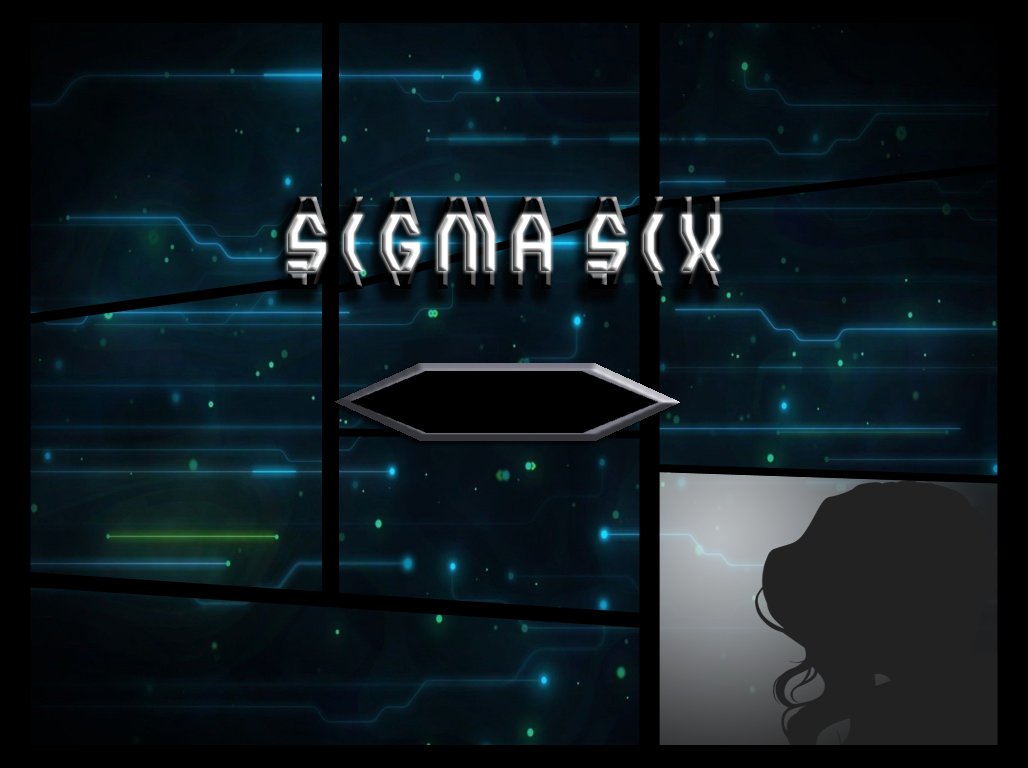
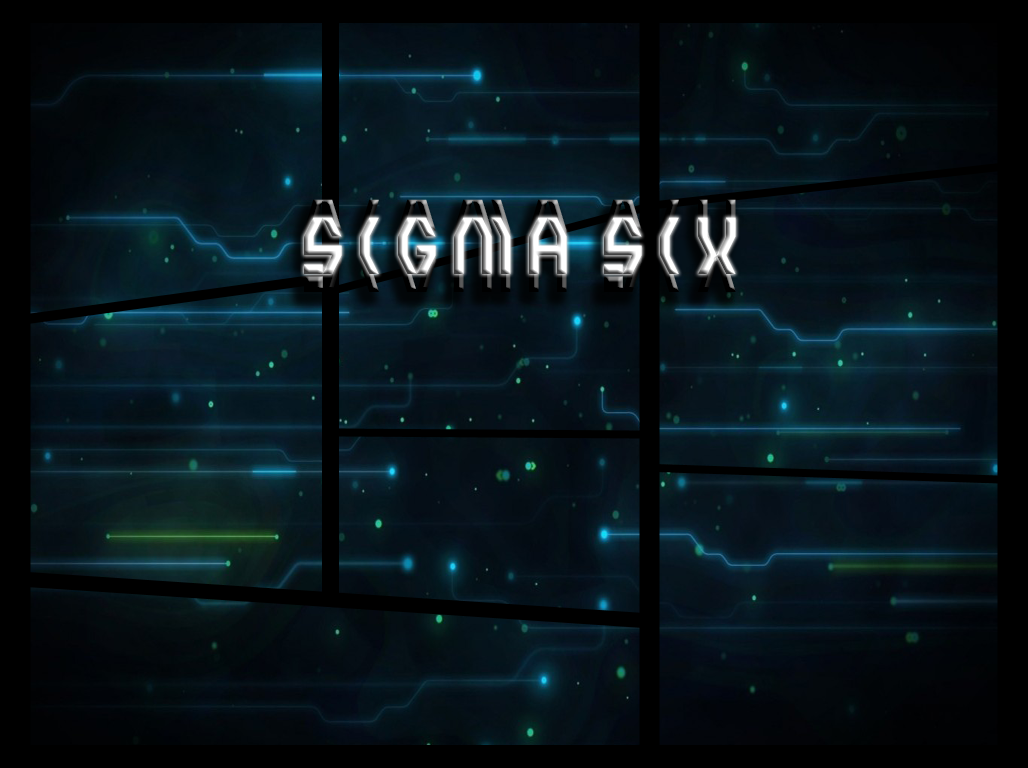
[FIX] background.png image on menu

Changed region(s): [[0.6226, 0.5938, 0.9961, 0.9688], [0.249, 0.25, 0.716, 0.4062], [0.3113, 0.4688, 0.6537, 0.5938]]

diff --git a/opengltest/Menu.h b/opengltest/Menu.h
@@ -10,6 +10,9 @@ public:
 	MenuClass();
 	void Draw();
 	void Update(float dTime);
+	//button == GLUT_ABCD_BUTTON
+	//state == GLUT_DOWN || GLUT_UP
+	void MouseClick(int button, int state, int x, int y);
 
 
 private:
